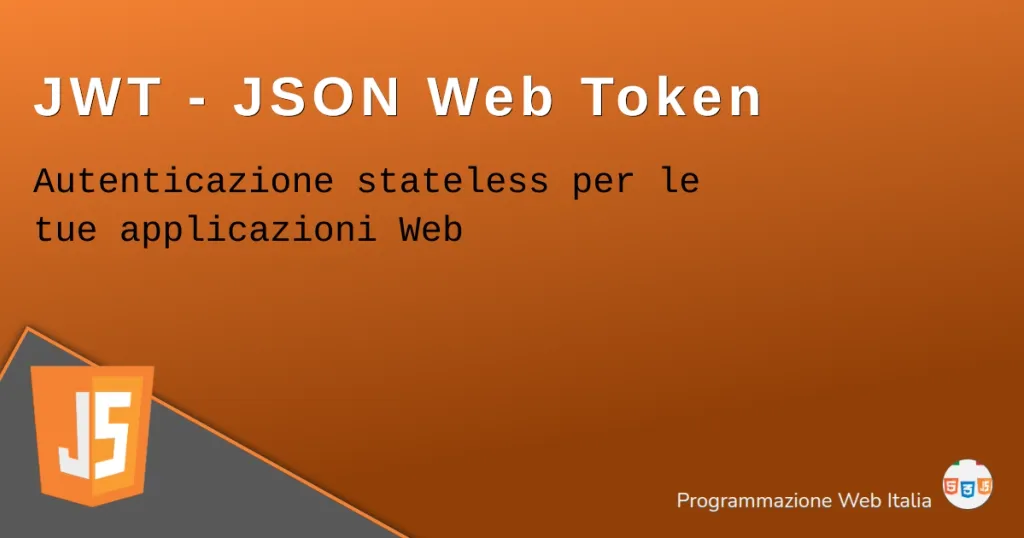
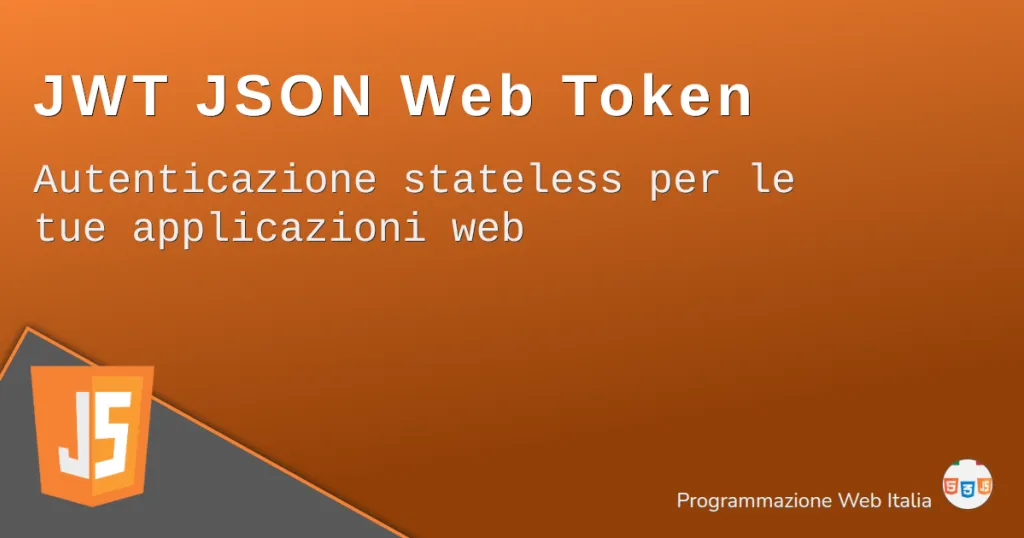
3 more posts and small changes

diff --git a/app/styles/code.css b/app/styles/code.css
@@ -6,6 +6,10 @@
   min-width: 75%;
   max-width: 100%;
   counter-reset: line;
+  code {
+    font-family: monospace;
+    font-weight: 550;
+  }
 }
 .code h4 {
   text-align: center;

diff --git a/app/styles/global.css b/app/styles/global.css
@@ -83,11 +83,6 @@ ul li, ol li {
   margin: var(--small-space) 0;
 }
 
-code {
-  font-family: monospace;
-  font-weight: 550;
-}
-
 .hide {
   display: none!important;
 }

diff --git a/README.md b/README.md
@@ -182,7 +182,7 @@ REDIRECT OK -> https://www.progweb.it/engineering/progettazione-software-svilupp
 
 https://www.progweb.it/html-attributo-loading-lazy-load
 REDIRECT OK -> https://www.progweb.it/html/attributo-loading-lazy-load
-
+POST INSERITO OK
 
 
 
@@ -190,7 +190,7 @@ REDIRECT OK -> https://www.progweb.it/html/attributo-loading-lazy-load
 
 https://www.progweb.it/css-variabili-sintassi-esempi
 REDIRECT OK -> https://www.progweb.it/css/variabili-sintassi-esempi
-
+POST INSERITO OK
 
 
 
@@ -206,7 +206,7 @@ REDIRECT OK -> https://www.progweb.it/javascript/promise-definizione-sintassi-es
 
 https://www.progweb.it/javascript-generator-definizione-esempi
 REDIRECT OK -> https://www.progweb.it/javascript/generator-definizione-esempi
-
+POST INSERITO OK
 
 
 
